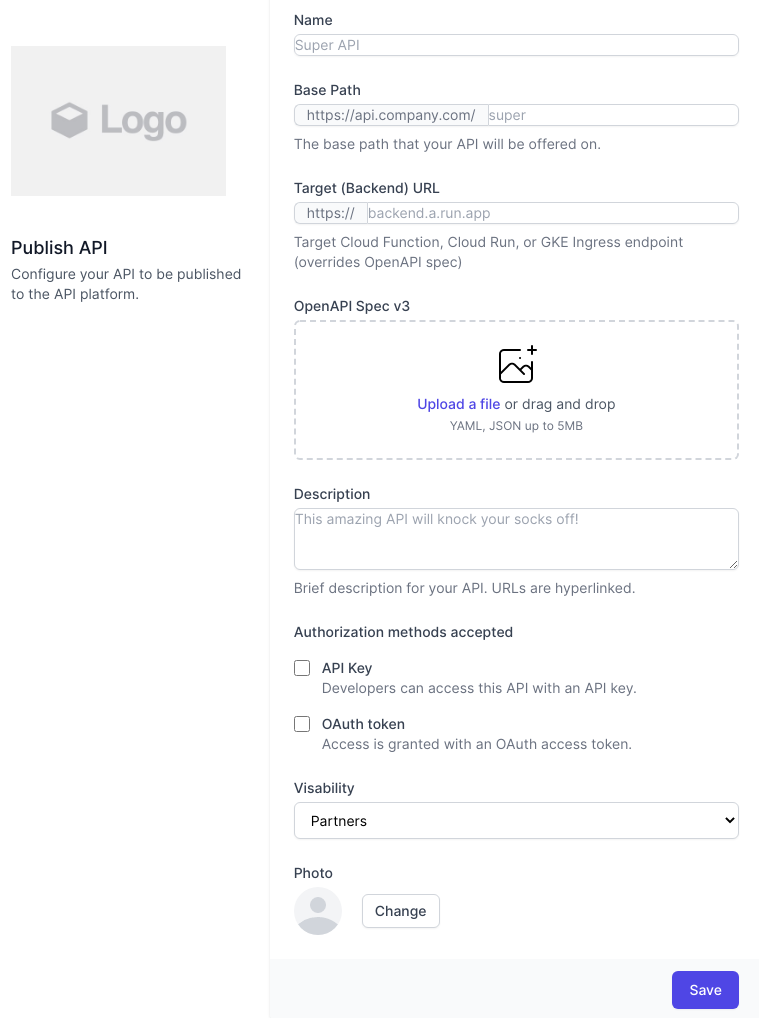
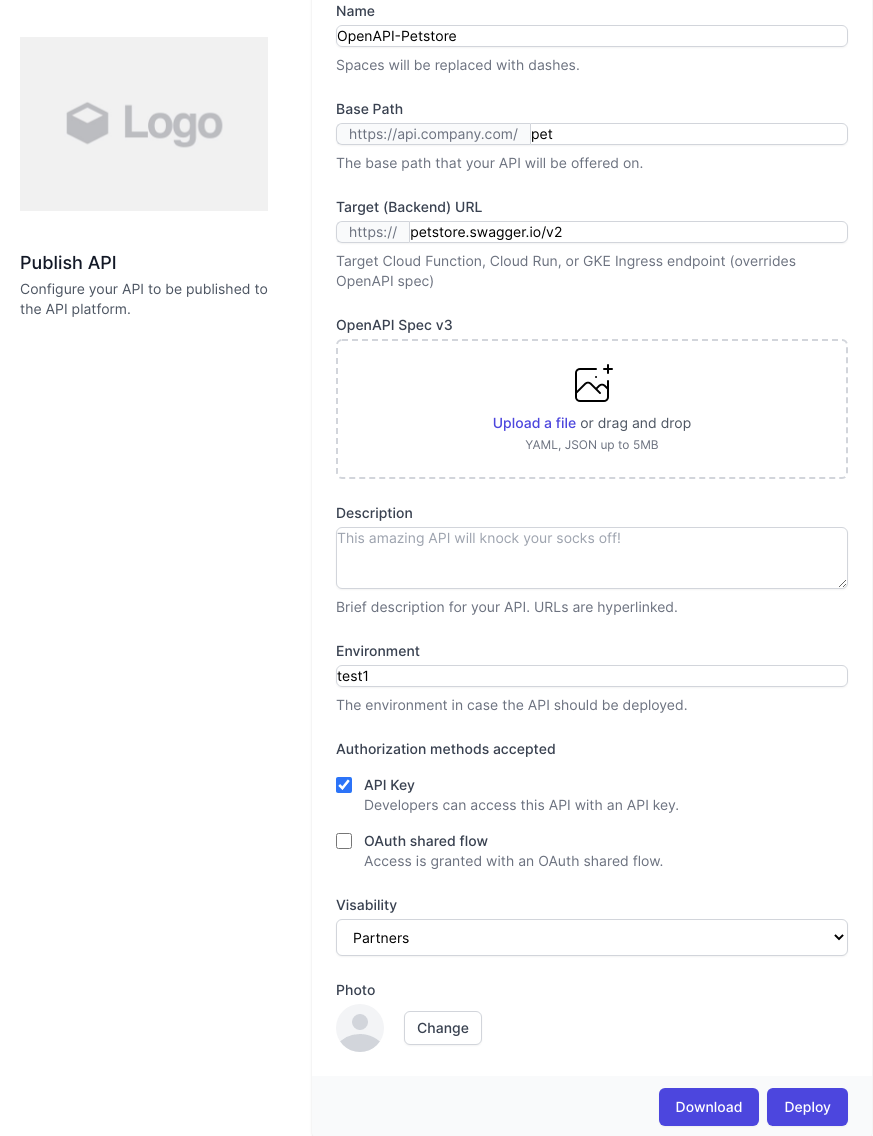
updated with shared flow auth

diff --git a/client/src/App.tsx b/client/src/App.tsx
@@ -8,6 +8,7 @@ import { env } from 'process';
 
 import { ToastContainer, toast } from 'react-toastify';
 import 'react-toastify/dist/ReactToastify.css';
+import { generateKeySync } from 'crypto';
 
 const yaml = require('js-yaml')
 
@@ -17,6 +18,8 @@ function App() {
   const [basePath, setBasePath] = useState("")
   const [target, setTarget] = useState("")
   const [spec, setSpec] = useState("")
+  const [authApiKey, setAuthApiKey] = useState(false)
+  const [authSharedFlow, setAuthSharedFlow] = useState(false)
   const [description, setDescription] = useState("")
   const [environment, setEnvironment] = useState("")
 
@@ -26,14 +29,8 @@ function App() {
       return;
     }
 
-    var command = {
-      name: name,
-      basePath: "/" + basePath,
-      targetUrl: "https://" + target
-    }
-
-    var serviceUrl = "/apigeegen/file"
-    if (process.env.REACT_APP_SVC_BASE_URL) serviceUrl = process.env.REACT_APP_SVC_BASE_URL + serviceUrl;
+    var command = generateCommand();
+    var serviceUrl = getServiceUrl() + "/file";
 
     fetch(serviceUrl,
     {
@@ -65,14 +62,8 @@ function App() {
       return;
     }
 
-    var command = {
-      name: name,
-      basePath: "/" + basePath,
-      targetUrl: "https://" + target
-    }
-
-    var serviceUrl = "/apigeegen/deployment/" + environment;
-    if (process.env.REACT_APP_SVC_BASE_URL) serviceUrl = process.env.REACT_APP_SVC_BASE_URL + serviceUrl;
+    var command = generateCommand();
+    var serviceUrl = getServiceUrl() + "/deployment/" + environment;
 
     fetch(serviceUrl,
     {
@@ -90,6 +81,27 @@ function App() {
         toast.error("API deployment failed, possibly the environment doesn't exist?")
       }
     });
+  }
+
+  function generateCommand() {
+    var command = {
+      name: name,
+      basePath: "/" + basePath,
+      targetUrl: "https://" + target,
+      auth: [""]
+    }
+
+    if (authApiKey) command.auth.push("apikey");
+    if (authSharedFlow) command.auth.push("sharedflow");
+
+    return command;
+  }
+
+  function getServiceUrl() {
+    var serviceUrl = "/apigeegen";
+    if (process.env.REACT_APP_SVC_BASE_URL) serviceUrl = process.env.REACT_APP_SVC_BASE_URL + serviceUrl;
+
+    return serviceUrl;
   }
 
   function onFileChange(event: any) {
@@ -304,6 +316,8 @@ function App() {
                                     name="apikey"
                                     type="checkbox"
                                     className="focus:ring-indigo-500 h-4 w-4 text-indigo-600 border-gray-300 rounded"
+                                    defaultChecked={authApiKey}
+                                    onChange={(e) => setAuthApiKey(e.target.checked)}
                                   />
                                 </div>
                                 <div className="ml-3 text-sm">
@@ -316,17 +330,19 @@ function App() {
                               <div className="flex items-start">
                                 <div className="flex items-center h-5">
                                   <input
-                                    id="idtoken"
-                                    name="idtoken"
+                                    id="authsharedflow"
+                                    name="authsharedflow"
                                     type="checkbox"
                                     className="focus:ring-indigo-500 h-4 w-4 text-indigo-600 border-gray-300 rounded"
+                                    defaultChecked={authSharedFlow}
+                                    onChange={(e) => setAuthSharedFlow(e.target.checked)}
                                   />
                                 </div>
                                 <div className="ml-3 text-sm">
-                                  <label htmlFor="idtoken" className="font-medium text-gray-700">
-                                    OAuth token
+                                  <label htmlFor="authsharedflow" className="font-medium text-gray-700">
+                                    OAuth shared flow
                                   </label>
-                                  <p className="text-gray-500">Access is granted with an OAuth access token.</p>
+                                  <p className="text-gray-500">Access is granted with an OAuth shared flow.</p>
                                 </div>
                               </div>
                             </div>

diff --git a/service/lib/plugins/auth-apikey.plugin.ts b/service/lib/plugins/auth-apikey.plugin.ts
@@ -1,0 +1,32 @@
+import fs from 'fs';
+import Handlebars from 'handlebars';
+import { ApigeeGenPlugin } from "../apigeegen-interface";
+import { apigeegen, authTypes } from "../apigeegen-types";
+
+export class AuthApiKeyPlugin implements ApigeeGenPlugin {
+
+  template: any = Handlebars.compile(fs.readFileSync("templates/auth-apikey.xml", "utf8"));
+  template_removekey: any = Handlebars.compile(fs.readFileSync("templates/auth-apikey-remove.xml", "utf8"));
+
+  applyTemplate(inputConfig: apigeegen, processingVars: Map<string, any>, outputDir: string): Promise<boolean> {
+    return new Promise((resolve, reject) => {
+
+      if (inputConfig.auth && inputConfig.auth.includes(authTypes.apikey)) {
+        fs.mkdirSync(outputDir + "/policies");
+
+        fs.writeFileSync(outputDir + "/policies/verify-api-key" + ".xml",
+          this.template({}));
+
+        fs.writeFileSync(outputDir + "/policies/remove-query-param-apikey" + ".xml",
+          this.template_removekey({}));
+
+        if (!processingVars["pf_rq_policies"]) processingVars["pf_rq_policies"] = [];
+
+        processingVars["pf_rq_policies"].push("verify-api-key");
+        processingVars["pf_rq_policies"].push("remove-query-param-apikey");
+      }
+
+      resolve(true);
+    });
+  }
+}

diff --git a/service/lib/apigeegen-service.ts b/service/lib/apigeegen-service.ts
@@ -2,12 +2,17 @@ import { ApigeeGenService, ApigeeGenPlugin } from "../lib/apigeegen-interface";
 import { ManifestPlugin } from "../lib/plugins/manifest.plugin"
 import { TargetsPlugin } from "../lib/plugins/targets.plugin"
 import { EndpointsPlugin } from "../lib/plugins/endpoints.plugin"
+import { AuthApiKeyPlugin } from "./plugins/auth-apikey.plugin";
+import { AuthSfPlugin } from "./plugins/auth-sf.plugin";
+
 import archiver from 'archiver';
 import fs from 'fs';
 
 let plugins: ApigeeGenPlugin[] = [
-  new EndpointsPlugin(),
+  new AuthApiKeyPlugin(),
+  new AuthSfPlugin(),
   new TargetsPlugin(),
+  new EndpointsPlugin(),
   new ManifestPlugin()
 ]
 
@@ -26,11 +31,8 @@ export class ApigeeGenerator implements ApigeeGenService {
       var archive = archiver('zip');
       archive.on('error', function(err) {
         reject(err);
-        //res.status(500).send({error: err.message});
       });
     
-      //res.attachment(genInput.name + '.zip').type('zip');
-      //archive.pipe(res);
       archive.directory("proxies/" + genInput.name, false);
     
       var output = fs.createWriteStream("proxies/" + genInput.name + ".zip");

diff --git a/service/src/index.ts b/service/src/index.ts
@@ -2,24 +2,12 @@ import fs from 'fs';
 import express from 'express';
 import cors from 'cors';
 import morgan from 'morgan'
-import Handlebars from 'handlebars';
-import archiver from 'archiver';
-import path from 'path';
 
 import { ApigeeService, ApiManagementInterface, ProxyRevision, ProxyDeployment} from 'apigee-x-module'
 
 import { apigeegen } from '../lib/apigeegen-types';
 import { ApigeeGenService, ApigeeGenPlugin } from "../lib/apigeegen-interface";
 import { ApigeeGenerator } from '../lib/apigeegen-service';
-import { ManifestPlugin } from "../lib/plugins/manifest.plugin"
-import { TargetsPlugin } from "../lib/plugins/targets.plugin"
-import { EndpointsPlugin } from "../lib/plugins/endpoints.plugin"
-
-let plugins: ApigeeGenPlugin[] = [
-  new EndpointsPlugin(),
-  new TargetsPlugin(),
-  new ManifestPlugin()
-]
 
 const apigeeGenerator: ApigeeGenService = new ApigeeGenerator();
 const apigeeService: ApiManagementInterface = new ApigeeService();

diff --git a/service/lib/plugins/auth-sf.plugin.ts b/service/lib/plugins/auth-sf.plugin.ts
@@ -1,0 +1,27 @@
+import fs from 'fs';
+import Handlebars from 'handlebars';
+import { ApigeeGenPlugin } from "../apigeegen-interface";
+import { apigeegen, authTypes } from "../apigeegen-types";
+
+export class AuthSfPlugin implements ApigeeGenPlugin {
+
+  template: any = Handlebars.compile(fs.readFileSync("templates/auth-sf.xml", "utf8"));
+
+  applyTemplate(inputConfig: apigeegen, processingVars: Map<string, any>, outputDir: string): Promise<boolean> {
+    return new Promise((resolve, reject) => {
+
+      if (inputConfig.auth && inputConfig.auth.includes(authTypes.sharedflow)) {
+        fs.mkdirSync(outputDir + "/policies");
+
+        fs.writeFileSync(outputDir + "/policies/validate-token" + ".xml",
+          this.template({}));
+
+        if (!processingVars["pf_rq_policies"]) processingVars["pf_rq_policies"] = [];
+
+        processingVars["pf_rq_policies"].push("validate-token");
+      }
+
+      resolve(true);
+    });
+  }
+}

diff --git a/service/lib/plugins/endpoints.plugin.ts b/service/lib/plugins/endpoints.plugin.ts
@@ -13,7 +13,7 @@ export class EndpointsPlugin implements ApigeeGenPlugin {
       fs.mkdirSync(outputDir + "/proxies");
 
       fs.writeFileSync(outputDir + "/proxies/default" + ".xml",
-        this.template({basePath: inputConfig.basePath}));
+        this.template({basePath: inputConfig.basePath, pf_rq_policies: processingVars["pf_rq_policies"]}));
 
       resolve(true);
     });

diff --git a/service/lib/apigeegen-types.ts b/service/lib/apigeegen-types.ts
@@ -13,7 +13,8 @@ enum proxyTypes {
 
 enum authTypes {
   apikey = "apikey",
-  jwt = "jwt"
+  jwt = "jwt",
+  sharedflow = "sharedflow"
 }
 
 export {

diff --git a/README.md b/README.md
@@ -1,23 +1,24 @@
 # Apigee Templater
-This is a simple tool for automating the templating of Apigee API proxies through a web frontend. The generated proxy is currently downloaded, but could easily be deployed to an Apigee org and environment as needed.
+This is a simple tool for automating the templating of Apigee API proxies through a web frontend. The generated proxy can either be downloaded as a bundle, or deployed to an Apigee X environment.
 
-A **live version** can be tested [here](https://apigee-templater-h7pi7igbcq-ew.a.run.app/). Just fill in a name, a base path, an existing endpoint, and you can submit to get a proxy bundle generated and downloaded, which you can then import into Apigee (any version).
+A **live version** can be tested [here](https://apigee-templater-h7pi7igbcq-ew.a.run.app/). Just fill in a name, a base path, an existing endpoint, and you can submit to get a proxy bundle generated or deployed (to a test environment).  You can also upload an OpenAPI v3 spec and get the fields filled in based on the spec values.
 
-![Frontend screenshot](img/screen2.png)
+![Frontend screenshot](img/screen1.png)
 
 Current features:
 * Proxy name is set
 * Base path is set
-* Target URL is set, or if an OpenAPI spec file is supplied, the server is taken as the target URL
+* Target URL is set
+* API Key is added if the checkbox is checked
+* OAuth 3rd party token validation is done through a shared flow if the checkbox is checked.
 
 Coming soon features:
-* Set Auth based on config (key, token, something else..)
 * More template snippets around throttling, analytics, etc...
 
 # Easy deploy
 [![Run on Google Cloud](https://deploy.cloud.run/button.svg)](https://deploy.cloud.run)
 
-If your GCP project allows unautenticated Cloud Run access, then you can just click the button above to deploy to Cloud Run and access the tool at the published URL.
+If your GCP project allows unautenticated Cloud Run access, then you can just click the button above to deploy to Cloud Run and access the tool at the published URL. 
 
 # Normal deploy
 Simply clone the repo and check the **deploy.sh** script for any customizations for your GCP environment, and then run:
@@ -28,8 +29,36 @@ Simply clone the repo and check the **deploy.sh** script for any customizations 
 
 As an alternative you can also run **deploy_local.sh** to build to a local Docker environment.
 
+# Headless
+You can also use the service without the frontend using REST calls, for example this call deploys a proxy:
+
+```bash
+curl --location --request POST 'http://localhost:8080/apigeegen/deployment/test1' \
+--header 'Content-Type: application/json' \
+--data-raw '{
+    "name": "testproxy",
+    "targetUrl": "https://httpbin.org",
+    "basePath": "/httpbin",
+    "auth": ["apikey"]
+}'
+```
+
+This call downloads the generated proxy bundle:
+
+```bash
+curl --location --request POST 'http://localhost:8080/apigeegen/file' \
+--header 'Content-Type: application/json' \
+--data-raw '{
+    "name": "testproxy",
+    "targetUrl": "https://httpbin.org",
+    "basePath": "/httpbin",
+    "auth": ["apikey"]
+}'
+```
+
+
 # Extending
-The project is simple to extend because the service is built with TypeScript and an easy plugin machanism for loading any additional templating, or adapting any of the existing plugins.  Just check out **service/src/index.ts** to see how the plugins are loaded, and **service/lib/plugins** to see the existing plugins, which are easy to duplicate and extend.
+The project is simple to extend because the service is built with TypeScript and an easy plugin machanism for loading any additional templating, or adapting any of the existing plugins.  Just check out **service/lib/apigeegen-service.ts** to see how the plugins are loaded, and **service/lib/plugins** to see the existing plugins, which are easy to duplicate and extend.
 
 # Feedback and feature requests
 In case you find this useful feel free to request features or report bugs as Github issues.
